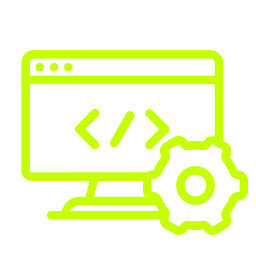
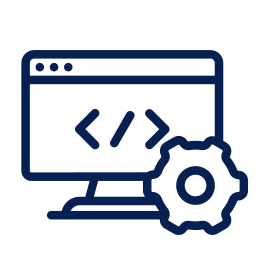
feature/updated_roadmap

Changed region(s): [[0.0625, 0.1875, 0.9688, 0.9375], [0.2812, 0.4062, 0.5312, 0.5938], [0.6875, 0.625, 0.8438, 0.8125]]

diff --git a/src/components/roadmap/Roadmap.jsx b/src/components/roadmap/Roadmap.jsx
@@ -1,8 +1,8 @@
-import React, {useId} from 'react';
+import React, {useId, useState} from 'react';
 import './roadmap.scss'
 import RoadmapItem from "./roadmapItem/RoadmapItem";
-import Divider from "./divider/Divider";
 import {Parallax} from "react-scroll-parallax";
+import back from '../../images/roadmap/back1.png'
 
 const items = [
     {
@@ -29,35 +29,66 @@ const items = [
 
 const Roadmap = () => {
     const id = useId()
+    const [entered, setEntered] = useState(true)
+    const [titleActive, setTitleActive] = useState(true)
     return (
-        <section className={'roadmap'}>
-            <div className="container">
-                <h1>
-                    Roadmap
-                </h1>
-                {
-                    items.map((item, index) =>
-                        <div key={`${id}__${item.title}__${index}`}
-                             className={'roadmap__item'}
+        <section className={`roadmap ${entered ? 'dark' : ''}`}>
+            <Parallax onExit={() => {
+                            setEntered(true)
+                      }}
+                      onEnter={() => {
+                          setEntered(false)
+                      }}>
+                <div className="container">
+                    <div className={'back-wrapper right'}>
+                        <Parallax speed={-100}
                         >
-                            <Parallax translateX={[-300, 0]}
-                                      easing={'easeOutQuad'}
-                                      speed={-10}
-                            >
-                                <RoadmapItem title={item.title}
-                                             description={item.description}
-                                             image={require(`../../images/roadmap/${item.image}`)}
-                                             index={index+1}
-                                />
-                            </Parallax>
-                            {/*{*/}
-                            {/*    index+1 !== items.length &&*/}
-                            {/*    <Divider/>*/}
-                            {/*}*/}
-                        </div>
-                    )
-                }
-            </div>
+                            <img className={'back'} src={back} alt={"back"}/>
+                        </Parallax>
+                    </div>
+                    <div className={'back-wrapper'}>
+                        <Parallax speed={-100}>
+                            <img className={'back'} src={back} alt={"back"}/>
+                        </Parallax>
+                    </div>
+                    <Parallax speed={-60}
+
+                    >
+                        <h1 className={titleActive ? 'active' : ''}>
+                            Roadmap
+                        </h1>
+                    </Parallax>
+                    <Parallax onEnter={() => {
+                                  setTitleActive(false)
+                              }}
+                              onExit={() => {
+                                  setTitleActive(true)
+                              }}>
+                        {
+                            items.map((item, index) =>
+                                <div key={`${id}__${item.title}__${index}`}
+                                     className={'roadmap__item'}
+                                >
+                                    <Parallax translateX={[-250, 100]}
+                                              easing={'easeOutQuad'}
+                                              speed={0}
+                                    >
+                                        <RoadmapItem title={item.title}
+                                                     description={item.description}
+                                                     image={require(`../../images/roadmap/${item.image}`)}
+                                                     index={index+1}
+                                        />
+                                    </Parallax>
+                                    {/*{*/}
+                                    {/*    index+1 !== items.length &&*/}
+                                    {/*    <Divider/>*/}
+                                    {/*}*/}
+                                </div>
+                            )
+                        }
+                    </Parallax>
+                </div>
+            </Parallax>
         </section>
     );
 };

diff --git a/src/components/roadmap/roadmap.scss b/src/components/roadmap/roadmap.scss
@@ -1,17 +1,74 @@
+@import '../../vars.scss';
+
 .roadmap{
-  color: white;
+  color: $primary;
+  background-color: white;
   padding: 80px 0;
   overflow: hidden;
+  position: relative;
+  transition: 3s;
+  &.dark{
+    background-color: $primary;
+    transition: 3s;
+  }
   .container{
     display: flex;
     flex-direction: column;
     align-items: center;
+    position: relative;
+    h1{
+      position: relative;
+      margin-top: 200px;
+      margin-bottom: 300px;
+      z-index: 1;
+      font-size: 100px;
+      letter-spacing: 5px;
+      font-family: Inter, sans-serif;
+      background-color: $green;
+      padding: 10px;
+      opacity: 0;
+      transition: 1s;
+      &.active{
+        opacity: 1;
+      }
+    }
+    .back-wrapper {
+      position: absolute;
+      opacity: .5;
+      display: flex;
+      width: 100%;
+      justify-content: start;
+      margin-top: 300px;
+      z-index: 0;
+      &.right{
+        justify-content: end;
+        bottom: 0;
+      }
+      .back {
+        max-width: 500px;
+        width: 100%;
+        object-fit: contain;
+      }
+    }
+
     .roadmap__item{
       display: flex;
       flex-direction: column;
       align-items: center;
       width: 100%;
       font-size: 18px;
+      position: relative;
+      z-index: 1;
+    }
+  }
+}
+
+@media (max-width: 575px) {
+  .roadmap{
+    .container{
+      h1{
+        font-size: 40px;
+      }
     }
   }
 }

diff --git a/src/components/roadmap/roadmapItem/roadmapItem.scss b/src/components/roadmap/roadmapItem/roadmapItem.scss
@@ -1,15 +1,19 @@
+@import '../../../vars.scss';
+
 .roadmapItem{
-  border: 1px solid #c6ff00;
-  background-color: #222222;
+  border: 5px solid $primary;
+  background-color: $green;
   width: 100%;
   max-width: 570px;
-  margin: 50px 0;
+  margin-bottom: 200px;
+  color: $primary;
+  font-family: Inter, sans-serif;
   .roadmap__header{
     height: 50px;
     padding: 10px;
     display: flex;
     align-items: center;
-    border-bottom: 1px solid #c6ff00;
+    border-bottom: 1px solid $primary;
     .index{
       margin-right: 40px;
       aspect-ratio: 1;
@@ -18,18 +22,20 @@
       justify-content: center;
       align-items: center;
       font-size: 18px;
-      background-color: #c6ff00;
-      color: black;
+      background-color: $primary;
+      color: $green;
     }
   }
   .roadmap__body{
     padding: 40px 20px;
     display: flex;
-    justify-content: space-between;
+    flex-direction: column;
+    align-items: center;
     p{
       max-width: 370px;
     }
     img{
+      margin-top: 30px;
       width: 100px;
     }
   }
@@ -43,6 +49,7 @@
       img{
         width: 140px;
         margin-bottom: 30px;
+        margin-top: 0;
       }
       p{
         text-align: center;

diff --git a/src/components/technology/Technology.scss b/src/components/technology/Technology.scss
@@ -3,7 +3,7 @@
 .technology {
     border-top: 2px solid;
     border-bottom: 2px solid #c6ff00;
-    background-color: $secondry;
+    background-color: $secondary;
     padding: 40px;
 
     .container {
@@ -50,7 +50,7 @@
     .technology {
         border-top: 2px solid;
         border-bottom: 2px solid #c6ff00;
-        background-color: $secondry;
+        background-color: $secondary;
         padding: 40px;
     
         .container {

diff --git a/src/components/banner/Banner.jsx b/src/components/banner/Banner.jsx
@@ -10,7 +10,7 @@ const Banner = () => {
         <div className={'banner'}>
             <div className="container">
                 <h1>
-                    {word}
+                    We create fantastic software
                 </h1>
             </div>
         </div>

diff --git a/src/_vars.scss b/src/_vars.scss
@@ -1,3 +1,3 @@
 $green : #ffed00;
 $primary : #062052;
-$secondry : #d2ecf8;
+$secondary : #d2ecf8;
